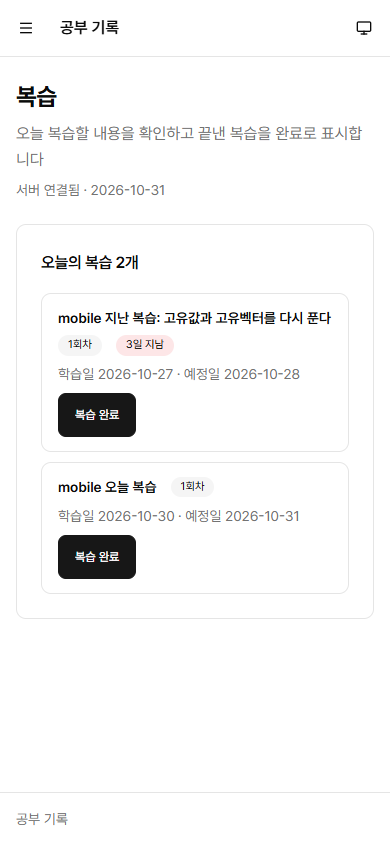
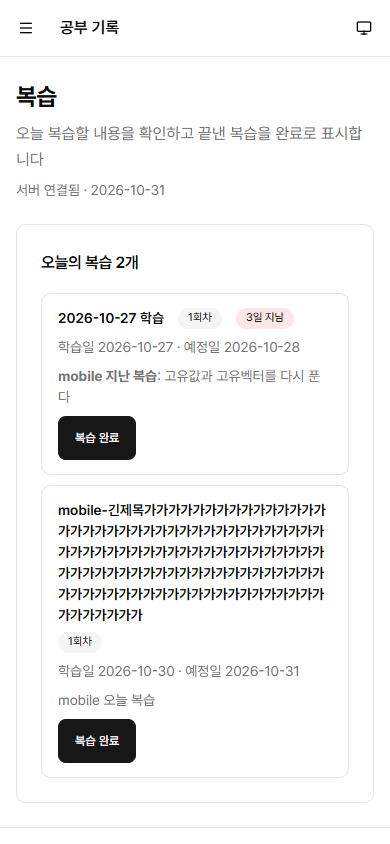
fix: 복습 메모 표시와 포커스 보완, 실패 경로 테스트 추가 (#43)
- 왜: 1차 리뷰에서 메모 원문 표시, 긴 제목 넘침, 포커스 유실, 테스트 공백 지적이 나옴
- 변경: 메모를 Markdown으로 표시하고 제목은 교재나 날짜로 바꿈. 잠금 대기와 2회차 보존 테스트 추가

diff --git a/frontend/src/reviews.test.tsx b/frontend/src/reviews.test.tsx
@@ -1,4 +1,5 @@
 import { fireEvent, render, screen, waitFor } from '@testing-library/react';
+import { useState } from 'react';
 import { expect, test, vi } from 'vitest';
 
 import { overdueDays, type Review, reviewTitle } from './review';
@@ -41,6 +42,27 @@ function server(
 
 const done = (next: object | null) => () => ({ status: 200, body: { next } });
 
+// A page whose only review has gone elsewhere: completing it fails and the reload no longer has it.
+function ReviewsWithGone({ status, error }: { status: number; error: string }) {
+  const [ready] = useState(() => {
+    let gone = false;
+    vi.stubGlobal(
+      'fetch',
+      vi.fn((_url: string, init?: { method?: string }) => {
+        if (init?.method === 'POST') {
+          gone = true;
+          return Promise.resolve(new Response(JSON.stringify({ error }), { status }));
+        }
+        return Promise.resolve(
+          new Response(JSON.stringify({ today, reviews: gone ? [] : [review()] })),
+        );
+      }),
+    );
+    return true;
+  });
+  return ready ? <Reviews /> : null;
+}
+
 test('days overdue count whole days and never go below zero', () => {
   expect(overdueDays('2026-10-31', today)).toBe(0);
   expect(overdueDays('2026-10-28', today)).toBe(3);
@@ -48,15 +70,27 @@ test('days overdue count whole days and never go below zero', () => {
   expect(overdueDays('2024-02-28', '2024-03-01')).toBe(2);
 });
 
-test('the title names the textbook and chapter, or else the memo, or else the date', () => {
+test('the title names the textbook and chapter, or else the date', () => {
   const book = { textbookTitle: '선형대수' };
   expect(reviewTitle(review(book))).toBe('선형대수');
   expect(reviewTitle(review({ ...book, contentNumber: '2', contentTitle: '행렬' }))).toBe(
     '선형대수 · 2 행렬',
   );
-  expect(reviewTitle(review({ memo: '\n  첫 줄\n둘째 줄' }))).toBe('첫 줄');
-  expect(reviewTitle(review({ memo: 'ㄱ'.repeat(41) }))).toBe(`${'ㄱ'.repeat(40)}…`);
-  expect(reviewTitle(review({ memo: ' ' }))).toBe('2026-10-30 학습');
+  expect(reviewTitle(review({ ...book, contentNumber: '', contentTitle: '행렬' }))).toBe(
+    '선형대수 · 행렬',
+  );
+  expect(reviewTitle(review())).toBe('2026-10-30 학습');
+});
+
+test('the memo is shown as Markdown, and a blank memo not at all', async () => {
+  server(
+    [review({ id: 1, memo: '**정의**를 다시 푼다' }), review({ id: 2, memo: '  ' })],
+    done(null),
+  );
+  render(<Reviews />);
+  const bold = await screen.findByText('정의');
+  expect(bold.tagName).toBe('STRONG');
+  expect(document.querySelectorAll('.memo')).toHaveLength(1);
 });
 
 test('an empty list says there is nothing to review', async () => {
@@ -83,7 +117,7 @@ test('overdue reviews stay listed and say how late they are', async () => {
 test('completing removes the review, shows the next date and moves focus', async () => {
   const fetch = server([review()], done({ round: 2, dueDate: '2026-11-02' }));
   render(<Reviews />);
-  fireEvent.click(await screen.findByRole('button', { name: '고유값 정리 1회차 복습 완료' }));
+  fireEvent.click(await screen.findByRole('button', { name: '2026-10-30 학습 1회차 복습 완료' }));
   expect(
     await screen.findByText('복습을 완료했습니다. 다음 복습은 2026-11-02입니다'),
   ).toBeInTheDocument();
@@ -113,6 +147,87 @@ test('a failed completion keeps the review, reports it and returns focus to its 
   await waitFor(() =>
     expect(document.activeElement).toBe(screen.getByRole('button', { name: /복습 완료/ })),
   );
+});
+
+test('a review already completed elsewhere leaves the list and focus goes to the heading', async () => {
+  for (const [status, error] of [
+    [409, '이미 완료한 복습입니다'],
+    [404, '복습을 찾을 수 없습니다'],
+  ] as const) {
+    const { unmount } = render(<ReviewsWithGone status={status} error={error} />);
+    fireEvent.click(await screen.findByRole('button', { name: /복습 완료/ }));
+    expect(await screen.findByRole('alert')).toHaveTextContent(error);
+    expect(await screen.findByText('오늘 복습할 내용이 없습니다')).toBeInTheDocument();
+    await waitFor(() => expect(document.activeElement?.id).toBe('reviews-today'));
+    unmount();
+  }
+});
+
+test('focus goes to the heading when a failed review is gone after the reload', async () => {
+  // A 500 whose completion did commit: the review is not listed when the page reloads.
+  let completed = false;
+  vi.stubGlobal(
+    'fetch',
+    vi.fn((_url: string, init?: { method?: string }) => {
+      if (init?.method === 'POST') {
+        completed = true;
+        return Promise.resolve(new Response(JSON.stringify({ error: '오류' }), { status: 500 }));
+      }
+      return Promise.resolve(
+        new Response(JSON.stringify({ today, reviews: completed ? [] : [review()] })),
+      );
+    }),
+  );
+  render(<Reviews />);
+  fireEvent.click(await screen.findByRole('button', { name: /복습 완료/ }));
+  await screen.findByRole('alert');
+  await waitFor(() => expect(document.activeElement?.id).toBe('reviews-today'));
+});
+
+test('a failed reload keeps the list on screen and reports it', async () => {
+  let posted = false;
+  vi.stubGlobal(
+    'fetch',
+    vi.fn((_url: string, init?: { method?: string }) => {
+      if (init?.method === 'POST') {
+        posted = true;
+        return Promise.resolve(new Response(JSON.stringify({ next: null })));
+      }
+      return Promise.resolve(
+        posted
+          ? new Response(JSON.stringify({ error: '목록 오류' }), { status: 500 })
+          : new Response(JSON.stringify({ today, reviews: [review()] })),
+      );
+    }),
+  );
+  render(<Reviews />);
+  fireEvent.click(await screen.findByRole('button', { name: /복습 완료/ }));
+  expect(await screen.findByRole('alert')).toHaveTextContent('복습 목록을 불러오지 못했습니다');
+  expect(screen.getByRole('button', { name: /복습 완료/ })).toBeInTheDocument();
+});
+
+test('the same message twice is cleared in between, so it is announced again', async () => {
+  let release = () => {};
+  const held = new Promise<void>((resolve) => (release = resolve));
+  let posts = 0;
+  vi.stubGlobal(
+    'fetch',
+    vi.fn(async (_url: string, init?: { method?: string }) => {
+      if (init?.method !== 'POST')
+        return new Response(JSON.stringify({ today, reviews: [review()] }));
+      if (++posts === 2) await held;
+      return new Response(JSON.stringify({ next: { round: 2, dueDate: '2026-11-02' } }));
+    }),
+  );
+  render(<Reviews />);
+  const message = '복습을 완료했습니다. 다음 복습은 2026-11-02입니다';
+  fireEvent.click(await screen.findByRole('button', { name: /복습 완료/ }));
+  await screen.findByText(message);
+  await waitFor(() => expect(screen.getByRole('button', { name: /복습 완료/ })).toBeEnabled());
+  fireEvent.click(screen.getByRole('button', { name: /복습 완료/ }));
+  await waitFor(() => expect(screen.queryByText(message)).toBeNull());
+  release();
+  await screen.findByText(message);
 });
 
 test('two quick clicks send one completion', async () => {

diff --git a/backend/test/today-reviews.integration.test.ts b/backend/test/today-reviews.integration.test.ts
@@ -126,6 +126,93 @@ test('today lists due reviews until they are completed', { skip: !url }, async (
         assert.deepEqual(rows[0], { n: 1 });
       });
 
+      await t.test('saving the log leaves an open round 2 alone', async () => {
+        const body = (status: string, studyDate: string) => ({
+          studyDate,
+          startTime: '09:00',
+          endTime: '10:00',
+          memo: '2회차 유지',
+          status,
+        });
+        const logId = await create(`${year}-10-01`, '2회차 유지');
+        today = `${year}-10-02`;
+        const review = (await listed()).find((r) => r.memo === '2회차 유지')!;
+        assert.equal((await complete(review.id)).status, 200);
+        const roundsNow = async () => {
+          const { rows } = await pool.query(
+            `SELECT round, due_date AS due, completed_on AS completed FROM reviews
+             WHERE study_log_id = $1 ORDER BY round`,
+            [logId],
+          );
+          return rows;
+        };
+        const expected = [
+          { round: 1, due: `${year}-10-02`, completed: `${year}-10-02` },
+          { round: 2, due: `${year}-10-04`, completed: null },
+        ];
+        assert.deepEqual(await roundsNow(), expected);
+        for (const next of [
+          body('planned', `${year}-10-01`),
+          body('done', `${year}-10-01`),
+          body('done', `${year}-11-20`),
+        ]) {
+          const saved = await call(`/api/study-logs/${logId}`, { method: 'PUT', body: next });
+          assert.equal(saved.status, 200);
+          assert.deepEqual(await roundsNow(), expected);
+        }
+      });
+
+      // Holds the study log's row lock until the completion is waiting on it, then runs `change`.
+      const whileWaiting = async (reviewId: number, logId: number, change: string[]) => {
+        const other = await pool.connect();
+        try {
+          await other.query('BEGIN');
+          await other.query('SELECT 1 FROM study_logs WHERE id = $1 FOR UPDATE', [logId]);
+          const completing = complete(reviewId);
+          let waiting = false;
+          for (let attempt = 0; attempt < 100 && !waiting; attempt++) {
+            const { rows } = await pool.query<{ waiting: boolean }>(
+              `SELECT count(*) > 0 AS waiting FROM pg_stat_activity
+               WHERE wait_event_type = 'Lock'
+                 AND query = 'SELECT 1 FROM study_logs WHERE id = $1 FOR UPDATE'`,
+            );
+            waiting = rows[0].waiting;
+            if (!waiting) await new Promise((resolve) => setTimeout(resolve, 50));
+          }
+          assert.ok(waiting, 'the completion should wait for the study log lock');
+          for (const sql of change) await other.query(sql, [logId]);
+          await other.query('COMMIT');
+          return await completing;
+        } finally {
+          await other.query('ROLLBACK');
+          other.release();
+        }
+      };
+
+      await t.test('undoing done while a completion waits answers 404, no round 2', async () => {
+        const logId = await create(`${year}-11-01`, '대기 중 해제');
+        today = `${year}-11-02`;
+        const review = (await listed()).find((r) => r.memo === '대기 중 해제')!;
+        const { status, data } = await whileWaiting(review.id, logId, [
+          `UPDATE study_logs SET status = 'planned' WHERE id = $1`,
+          'DELETE FROM reviews WHERE study_log_id = $1 AND round = 1 AND completed_on IS NULL',
+        ]);
+        assert.equal(status, 404);
+        assert.equal(data.error, '복습을 찾을 수 없습니다');
+        const { rows } = await pool.query('SELECT 1 FROM reviews WHERE study_log_id = $1', [logId]);
+        assert.deepEqual(rows, []);
+      });
+
+      await t.test('deleting the log while a completion waits answers 404', async () => {
+        const logId = await create(`${year}-12-01`, '대기 중 삭제');
+        today = `${year}-12-02`;
+        const review = (await listed()).find((r) => r.memo === '대기 중 삭제')!;
+        const { status } = await whileWaiting(review.id, logId, [
+          'DELETE FROM study_logs WHERE id = $1',
+        ]);
+        assert.equal(status, 404);
+      });
+
       await t.test('a review that does not exist answers a Korean 404', async () => {
         const { status, data } = await complete(999_999_999_999_998);
         assert.equal(status, 404);

diff --git a/frontend/src/reviews.tsx b/frontend/src/reviews.tsx
@@ -2,6 +2,7 @@ import React, { useEffect, useState } from 'react';
 
 import { type RequestError, requestJson } from './api';
 import { useBusy } from './busy';
+import { Memo } from './Memo';
 import { overdueDays, type Review, reviewTitle } from './review';
 
 type Notice = { kind: 'status' | 'alert'; text: string } | undefined;
@@ -42,7 +43,8 @@ export function Reviews() {
   useEffect(() => {
     if (!wantFocus || busy) return;
     setWantFocus(undefined);
-    document.getElementById(wantFocus)?.focus?.();
+    // A review completed elsewhere leaves with its button, even after a failure here.
+    (document.getElementById(wantFocus) ?? document.getElementById(headingId))?.focus?.();
   }, [wantFocus, busy]);
 
   // A failure keeps the list on screen and reports that it could not be refreshed.
@@ -57,6 +59,8 @@ export function Reviews() {
 
   const complete = async (review: Review) => {
     if (!begin()) return;
+    // Cleared first, so the same message twice in a row is still announced.
+    setNotice(undefined);
     try {
       const { next } = await requestJson<Completed>(`/api/reviews/${review.id}/complete`, {
         method: 'POST',
@@ -121,7 +125,7 @@ export function Reviews() {
                   <p className="status">
                     학습일 {review.studyDate} · 예정일 {review.dueDate}
                   </p>
-                  {review.textbookTitle && review.memo && <p className="log-memo">{review.memo}</p>}
+                  {review.memo.trim() && <Memo text={review.memo} clamp />}
                   <div className="log-actions">
                     <button
                       type="button"

diff --git a/frontend/src/review.ts b/frontend/src/review.ts
@@ -12,25 +12,18 @@ export type Review = {
 };
 
 const dayMs = 86_400_000;
-const memoTitleLength = 40;
 
 // Whole days from `dueDate` to `today`, both YYYY-MM-DD, so no local time zone shifts a day.
 export const overdueDays = (dueDate: string, today: string) =>
   Math.max(0, (Date.parse(`${today}T00:00:00Z`) - Date.parse(`${dueDate}T00:00:00Z`)) / dayMs);
 
-// What was studied: the textbook and chapter, or else the memo's first line, or else the date.
+// What was studied: the textbook and chapter, or else the date. The memo is Markdown, so it is
+// shown below the title rather than cut into it.
 export function reviewTitle(review: Review) {
-  if (review.textbookTitle) {
-    const content =
-      review.contentTitle === null
-        ? ''
-        : ` · ${contentLabel({ number: review.contentNumber ?? '', title: review.contentTitle })}`;
-    return `${review.textbookTitle}${content}`;
-  }
-  const line = review.memo
-    .split('\n')
-    .map((text) => text.trim())
-    .find(Boolean);
-  if (!line) return `${review.studyDate} 학습`;
-  return line.length > memoTitleLength ? `${line.slice(0, memoTitleLength)}…` : line;
+  if (!review.textbookTitle) return `${review.studyDate} 학습`;
+  const content =
+    review.contentTitle === null
+      ? ''
+      : ` · ${contentLabel({ number: review.contentNumber ?? '', title: review.contentTitle })}`;
+  return `${review.textbookTitle}${content}`;
 }

diff --git a/frontend/src/style.css b/frontend/src/style.css
@@ -328,6 +328,7 @@
 }
 .log-date {
   font-weight: 600;
+  overflow-wrap: anywhere;
 }
 .badge {
   border-radius: 999px;

diff --git a/docs/changes/43-today-reviews.md b/docs/changes/43-today-reviews.md
@@ -19,19 +19,31 @@
 ## 결정한 점
 
 - 이미 완료한 회차를 다시 완료하면 409, 없으면 404로 답한다. 규칙상 완료는 되돌리지 않으므로 재완료로 날짜가 바뀌면 안 된다.
-- 완료는 확인 단계 없이 한 번에 처리한다. 자주 쓰는 동작이고, 잘못 눌렀으면 다음 회차 날짜를 #45의 수동 조정으로 고친다. #45 전까지는 고칠 방법이 없다.
+- 완료는 확인 단계 없이 한 번에 처리한다. 자주 쓰는 동작이고, 잘못 눌렀으면 다음 회차 날짜를 #45의 수동 조정으로 고친다. #45 전까지는 고칠 방법이 없다. 5회차는 다음 회차가 없어 #45 뒤에도 고칠 수 없다.
+- 교재가 없는 기록의 제목은 "날짜 학습"이다. 메모는 Markdown이라 제목으로 자르지 않고, 학습 기록 화면과 같은 방식으로 제목 아래에 보여 준다.
 - 완료 처리는 학습 기록 행을 먼저 잠근다. 학습 기록 저장과 잠금 순서를 맞춰 서로 기다리다 멈추지 않게 한다.
 - 예정일 전의 회차는 목록에 나오지 않는다. API로 직접 완료하면 처리된다. 조회 범위는 #45에서 다룬다.
 
 ## 테스트
 
-- `backend/test/today-reviews.integration.test.ts`: 목록 범위와 순서, 미완료 유지, 5회차까지의 날짜, 늦은 완료, 중복 완료, 404, 400.
-- `frontend/src/reviews.test.tsx`: 지난 일수, 제목 규칙, 빈 목록, 완료, 마지막 회차, 실패 시 포커스, 빠른 두 번 클릭, 불러오기 실패.
+- `backend/test/today-reviews.integration.test.ts`: 목록 범위와 순서, 미완료 유지, 5회차까지의 날짜, 늦은 완료, 중복 완료, 기록 저장 시 2회차 보존, 잠금 대기 중 완료 해제와 삭제, 404, 400.
+- `frontend/src/reviews.test.tsx`: 지난 일수, 제목 규칙, Markdown 메모, 빈 목록, 완료, 마지막 회차, 실패 시 포커스, 404·409, 다시 불러오기 실패, 같은 문구 반복, 빠른 두 번 클릭, 불러오기 실패.
 - `frontend/src/app.test.tsx`: 메뉴와 주소에 복습을 더했다.
+
+## 리뷰
+
+1차 리뷰에서 잠금과 다음 회차 로직의 결함은 없었고, 다음을 이 PR에서 고쳤다.
+
+- 긴 제목이 카드 밖으로 넘칠 수 있어 `.log-date`에 줄바꿈을 더했다.
+- 메모가 Markdown 원문으로 보이고, 교재 없는 기록은 메모 둘째 줄부터 보이지 않았다. `Memo`로 보여 주고 제목은 날짜로 바꿨다. 제목을 자르지 않으므로 이모지가 깨지는 문제도 사라졌다.
+- 같은 완료 문구가 반복되면 스크린 리더가 읽지 않아, 요청 시작 때 문구를 지운다.
+- 실패 뒤 버튼이 사라지면 포커스가 제목으로 간다.
+- 잠금 대기, 2회차 보존, 프런트 실패 경로의 테스트를 더했다.
+- 5회차 완료는 #45 뒤에도 고칠 수 없다는 점을 적었다.
 
 ## 검증
 
-`TEST_DATABASE_URL`을 설정한 `npm run check`가 통과했다. 백엔드 288건, 프런트 61건, 스킬 4건이 모두 통과했다(건너뜀 0). `npm run standards:check`도 통과했다.
+`TEST_DATABASE_URL`을 설정한 `npm run check`가 통과했다. 백엔드 291건, 프런트 66건, 스킬 4건이 모두 통과했다(건너뜀 0). `npm run standards:check`도 통과했다.
 
 ## 브라우저 확인
 
@@ -40,7 +52,8 @@
 - 지난 회차에 "3일 지남"이 표시되고 목록에 남는다.
 - 완료하면 목록에서 빠지고, 오늘 + 2일의 다음 복습 날짜가 안내되며, 포커스가 제목으로 옮겨 간다.
 - 모두 완료하면 "오늘 복습할 내용이 없습니다"가 나온다.
-- 가로 스크롤이 없고, 모바일 버튼 높이는 44px이다.
+- 가로 스크롤이 없고, 모바일 버튼 높이는 44px이다. 공백 없는 120자 교재 제목도 카드 안에 머문다.
+- 메모의 Markdown이 굵은 글씨로 표시된다.
 
 ![PC](assets/43-pc-1440x900.png)
 
